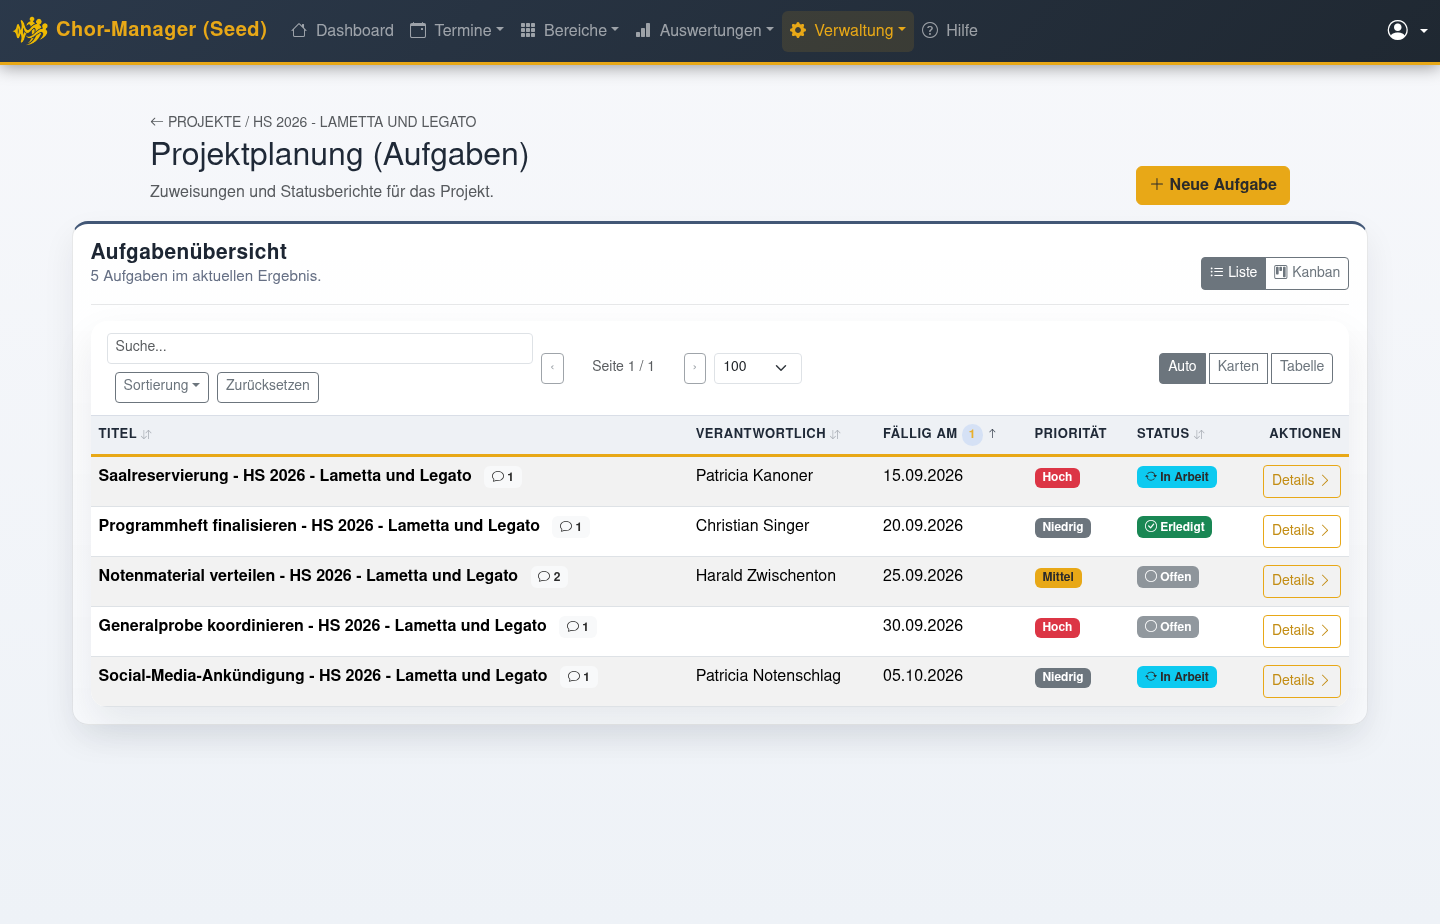
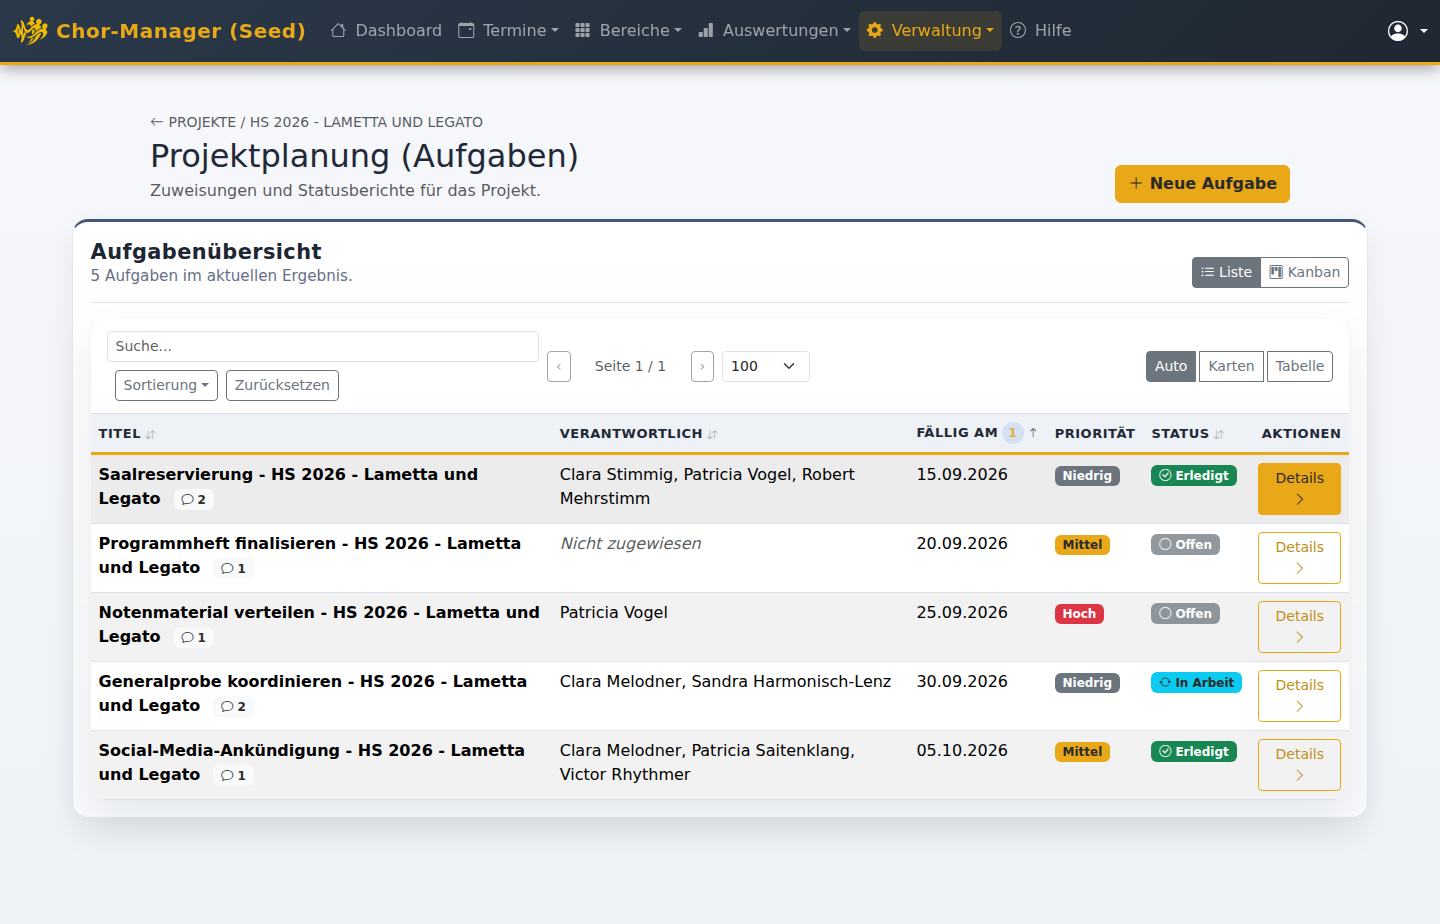
fix(tasks): Auswahlfeld für die Zuweisung als Tom Select darstellen
Beide Aufgabenformulare tragen `data-tom-select`, luden die Bibliothek aber
nie - das Feld blieb ein einfaches Mehrfach-Listenfeld, in dem man mit
Strg-Klick auswählt und die Getroffenen nicht nebeneinander sieht. Aufgefallen
ist es erst am neu gezogenen Screenshot, nicht an twigcs: Ein Attribut ohne
passendes Skript ist für den Linter unauffällig.

`templates/projects/members.twig` bindet dieselben zwei Dateien schon so ein.

Hilfetexte zur Projektplanung um die Mehrfach-Zuweisung ergänzt und die
Screenshots neu gezogen; die Projektliste zeigt darin nun auch die
chronologische Reihenfolge.

diff --git a/help/projects/docs/projects-planning.md b/help/projects/docs/projects-planning.md
@@ -1,6 +1,6 @@
 # Projektplanung (Aufgaben)
 
-Das Planungsmodul hält fest, was in einem Projekt zu tun ist: einzelne **Aufgaben** mit Verantwortlichen, Fälligkeitsdaten, Priorität und Status. So behältst du den Überblick, wer sich um welche Vorbereitung kümmert – von der Saalreservierung bis zum Programmheft.
+Das Planungsmodul hält fest, was in einem Projekt zu tun ist: einzelne **Aufgaben** mit Verantwortlichen, Fälligkeitsdaten, Priorität und Status. Eine Aufgabe kann mehreren Personen gemeinsam gehören. So behältst du den Überblick, wer sich um welche Vorbereitung kümmert – von der Saalreservierung bis zum Programmheft.
 
 > **Berechtigung:** Die Projektplanung ist nur verfügbar, wenn das Aufgaben-Modul aktiv ist und deine Rolle das Recht **"Projektplanung (Aufgaben)"** hat. Fehlt dir der Zugriff, frag den Administrator unter **Verwaltung → Rollen**.
 
@@ -8,7 +8,7 @@ Du erreichst die Planung eines Projekts über **Verwaltung → Projekte → Akti
 
 ## 1. Aufgabenliste
 
-Die Listenansicht zeigt alle Aufgaben des Projekts mit Titel, Verantwortlichem, Fälligkeitsdatum, Priorität und Status. Überfällige, noch nicht erledigte Aufgaben werden hervorgehoben.
+Die Listenansicht zeigt alle Aufgaben des Projekts mit Titel, Verantwortlichen, Fälligkeitsdatum, Priorität und Status. Sind mehrere Personen zuständig, stehen sie durch Komma getrennt nebeneinander; sortiert wird die Spalte nach dem ersten Namen. Überfällige, noch nicht erledigte Aufgaben werden hervorgehoben.
 
 ![Aufgabenliste eines Projekts](images/projects/05-tasks-list.png)
 
@@ -27,7 +27,7 @@ Das Kanban-Board ordnet die Aufgaben nach Status in vier Spalten: **Offen**, **I
 ![Formular zum Anlegen einer Aufgabe](images/projects/07-new-task-modal.png)
 
 - **Titel der Aufgabe** ist Pflicht.
-- **Zugewiesen an** wählst du aus den Mitgliedern des Projekts (optional – eine Aufgabe kann auch unzugewiesen bleiben).
+- **Zugewiesen an** wählst du aus den Mitgliedern des Projekts. Du kannst mehrere Personen auswählen, wenn sich mehrere um dieselbe Sache kümmern (optional – eine Aufgabe kann auch unzugewiesen bleiben).
 - **Priorität** (Niedrig/Mittel/Hoch) und **Status** (Offen/In Arbeit/Erledigt) steuern Einfärbung und Einsortierung.
 - **Start-** und **Fälligkeitsdatum** sowie eine formatierbare **Beschreibung** sind optional.
 
@@ -42,11 +42,16 @@ Auf der Detailseite kannst du:
 - **Status** und Stammdaten über **Bearbeiten** ändern,
 - **Kommentare** schreiben, um Rückfragen und Zwischenstände zu dokumentieren,
 - **Dateien** anhängen und herunterladen,
-- den **Aktivitätsverlauf** einsehen (wer hat wann was geändert),
+- den **Aktivitätsverlauf** einsehen (wer hat wann was geändert – bei der Zuweisung steht dort getrennt, wer dazugekommen und wer weggefallen ist),
 - die Aufgabe in der **Gefahrenzone** löschen.
+
+## 5. Aufgaben im Kalender
+
+Aufgaben, die dir zugewiesen sind, ein Fälligkeitsdatum haben und noch nicht abgeschlossen sind, können in deinem abonnierten Kalender erscheinen. Ob und wie, stellst du selbst unter **Profil → Kalender** ein; die Hilfe zu den Terminen beschreibt die Einstellung genauer.
 
 ## Häufige Stolperfallen
 
 - **Nur Projektmitglieder auswählbar** – als Verantwortliche erscheinen ausschließlich Mitglieder des Projekts. Fehlt jemand, ordne die Person zuerst dem Projekt zu (siehe [Projektmitglieder zuweisen](projects-members)).
 - **Aufgabe löschen ist endgültig** – dabei verschwinden auch alle Kommentare, Anhänge und der Verlauf der Aufgabe.
 - **Status-Änderung per Drag & Drop** wirkt sofort – eine im Kanban verschobene Karte behält ihren neuen Status auch in der Liste.
+- **Eine unpassende Person lässt die ganze Auswahl scheitern** – gehört eine der ausgewählten Personen nicht zum Projekt, wird nichts gespeichert und du bekommst einen Hinweis. So bleibt niemand still auf der Strecke.
